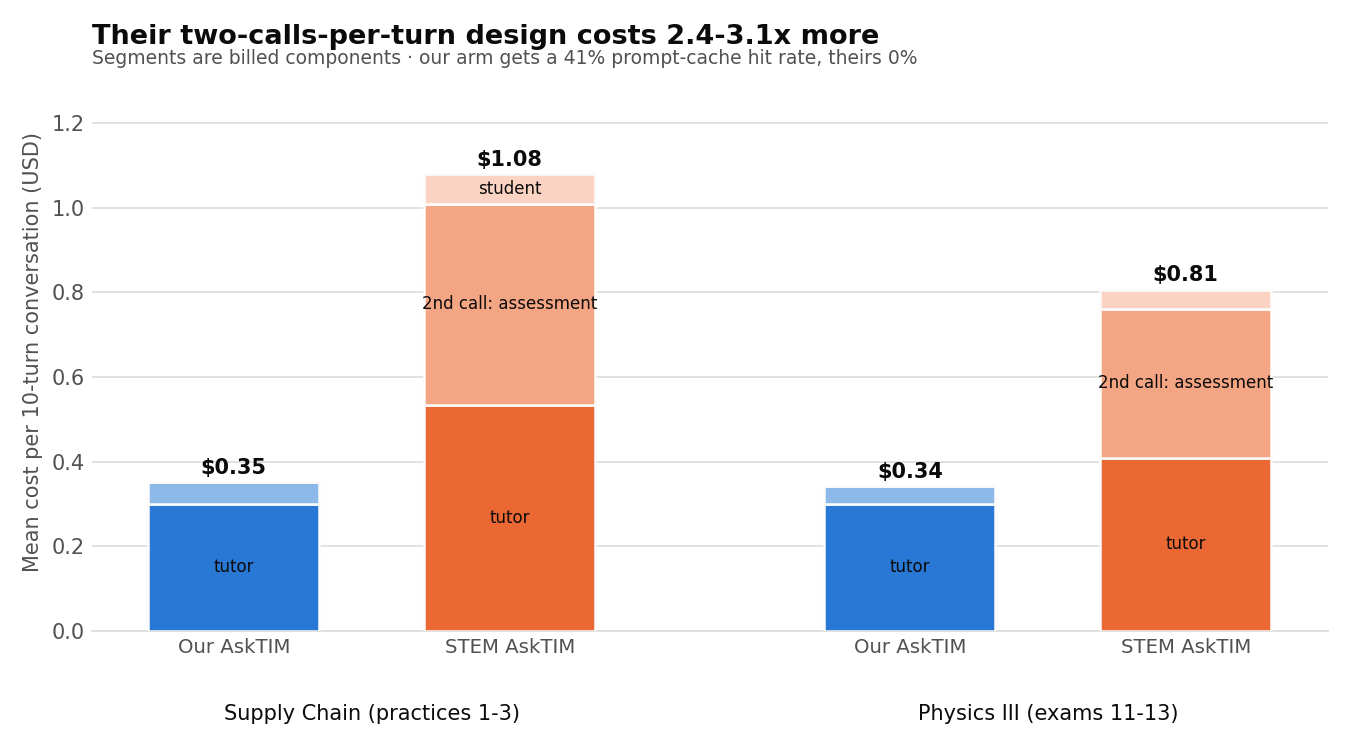
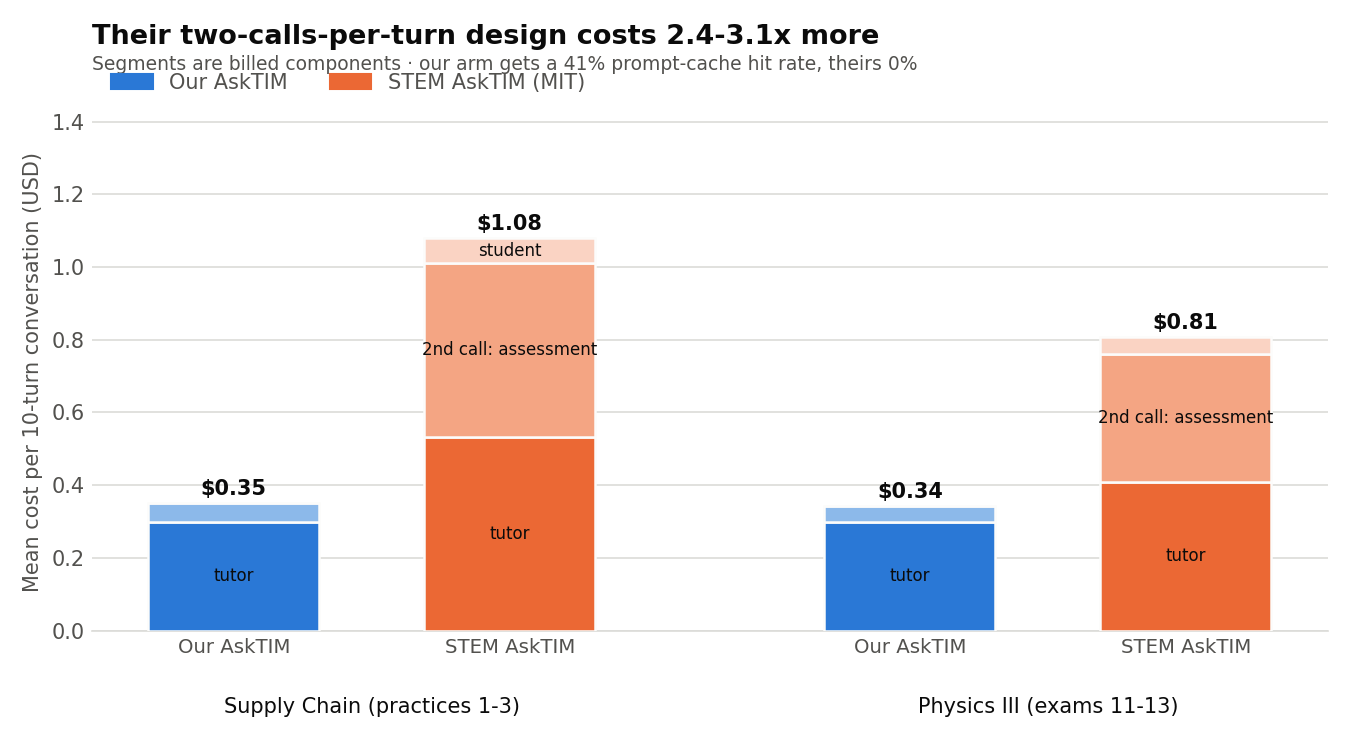
fix(viz): same tutor legend, same position, on all five comparison charts
Charts 04 and 05 identified the arms only by small x-axis text while 01-03
carried a legend. In a deck where every slide is a tutor comparison, colour ->
tutor has to be unmissable and identical everywhere, so the viewer learns
blue = ours once and it holds across the set.

diff --git a/visualization/run_comparison_viz.py b/visualization/run_comparison_viz.py
@@ -363,15 +363,25 @@ def chart_cost(rows: list[Row], plt) -> Path:
 
     ax.set_xticks(xs)
     ax.set_xticklabels(labels, color=_INK_SOFT, fontsize=9.5)
-    _style(ax, ylabel="Mean cost per 10-turn conversation (USD)", ymax=1.32)
+    _style(ax, ylabel="Mean cost per 10-turn conversation (USD)", ymax=1.42)
+    # Same legend, same place, on every chart in the set — the viewer learns
+    # blue=ours once and it holds across the whole deck.
+    handles = [
+        plt.Rectangle((0, 0), 1, 1, color=_ARM_COLOR[a], label=_ARM_LABEL[a])
+        for a in _ARMS
+    ]
+    ax.legend(
+        handles=handles, frameon=False, fontsize=10, labelcolor=_INK_SOFT, ncol=2,
+        loc="lower left", bbox_to_anchor=(0, 1.005),
+    )
     for i, course in enumerate(courses):
         ax.text(xs[i * 2] + 0.5, -0.16, _ROUNDS[course].replace("\n", " "),
                 ha="center", fontsize=10, color=_INK, transform=ax.get_xaxis_transform())
     ax.set_title(
         "Their two-calls-per-turn design costs 2.4-3.1x more",
-        color=_INK, fontsize=13, fontweight="bold", loc="left", pad=14,
+        color=_INK, fontsize=13, fontweight="bold", loc="left", pad=34,
     )
-    ax.text(0, 1.015,
+    ax.text(0, 1.085,
             "Segments are billed components · our arm gets a 41% prompt-cache hit rate, theirs 0%",
             transform=ax.transAxes, color=_INK_SOFT, fontsize=9)
     fig.tight_layout()
@@ -431,17 +441,25 @@ def chart_distribution(rows: list[Row], plt) -> Path:
         ax.set_title(_ROUNDS[course].replace("\n", " "), color=_INK_SOFT,
                      fontsize=11, loc="left")
 
+    handles = [
+        plt.Rectangle((0, 0), 1, 1, color=_ARM_COLOR[a], label=_ARM_LABEL[a])
+        for a in _ARMS
+    ]
+    axes[0].legend(
+        handles=handles, frameon=False, fontsize=10, labelcolor=_INK_SOFT, ncol=2,
+        loc="lower left", bbox_to_anchor=(0, 1.06),
+    )
     fig.suptitle(
         "Both reach 40 at their best — they separate at their worst",
         color=_INK, fontsize=13, fontweight="bold", x=0.008, ha="left", y=0.985,
     )
     fig.text(
-        0.008, 0.925,
+        0.008, 0.93,
         "Each dot is one conversation (27 per arm per course) · box spans the "
         "middle 50%, white line is the median",
         color=_INK_SOFT, fontsize=9,
     )
-    fig.tight_layout(rect=(0, 0, 1, 0.90))
+    fig.tight_layout(rect=(0, 0, 1, 0.87))
     path = _OUT / "05_score_distribution.png"
     fig.savefig(path, dpi=150)
     plt.close(fig)
